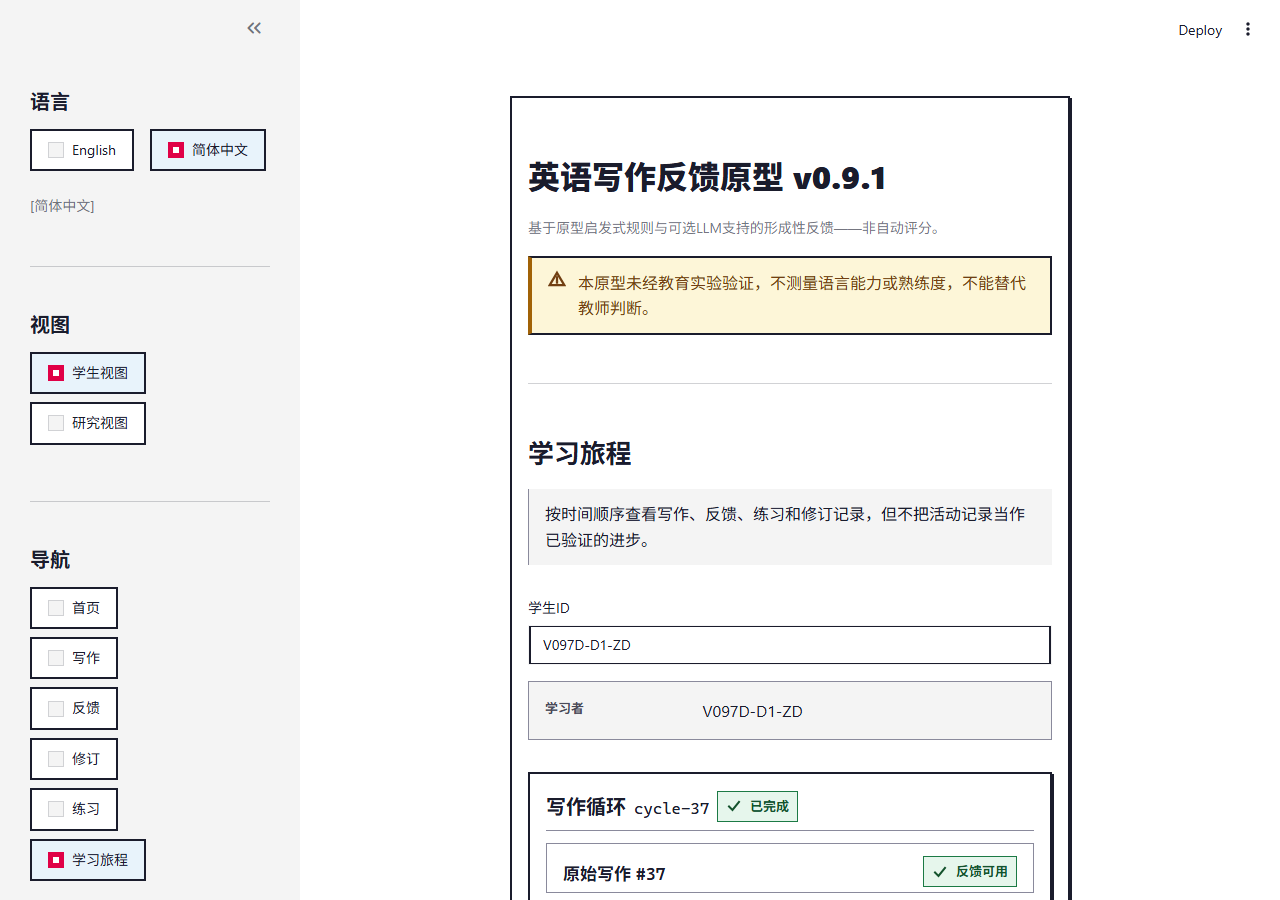
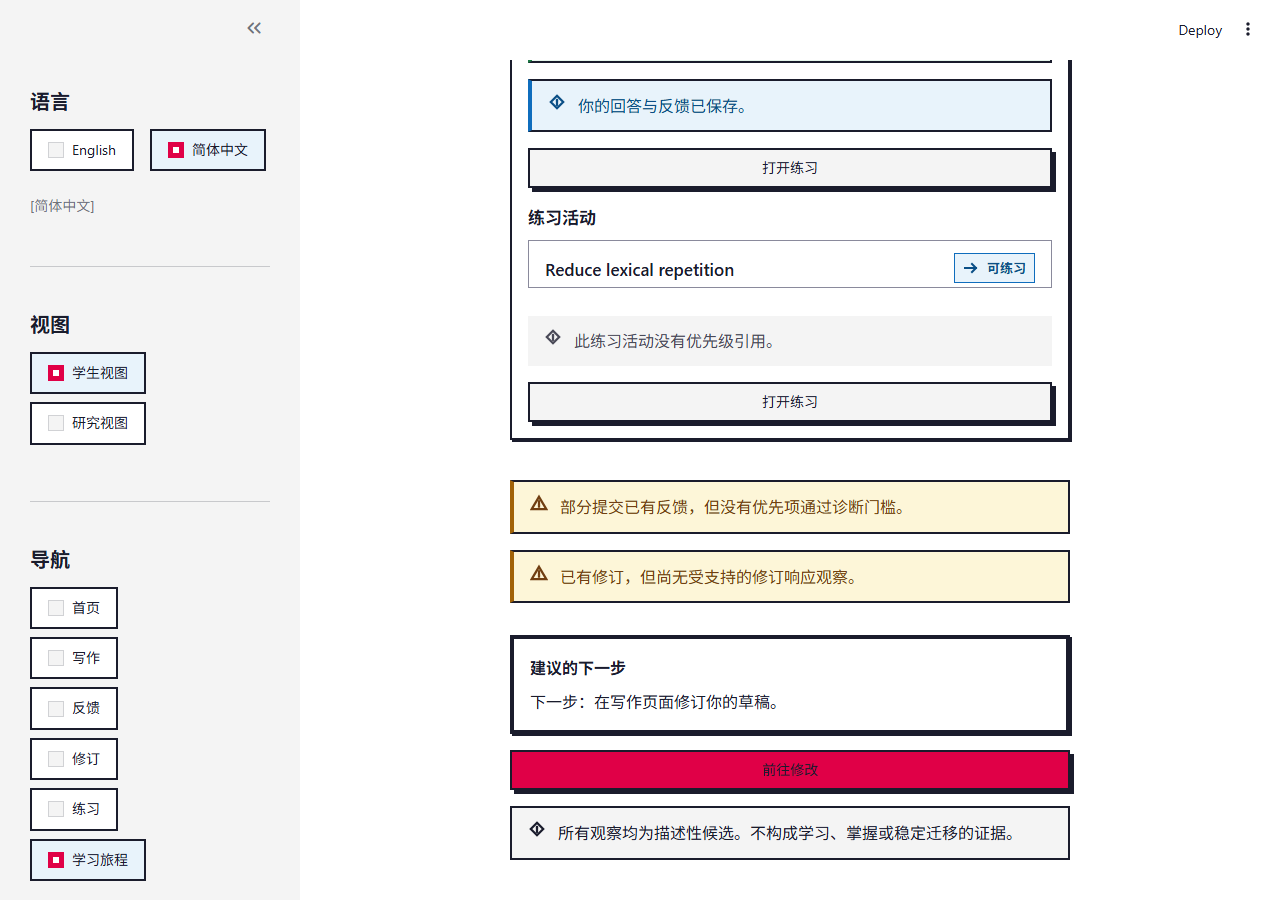
fix(v0.9.7-d): scope surface hooks to keyed containers and capture honest below-fold evidence (RC-01, RC-02)

Changed region(s): [[0.375, 0.4356, 0.8438, 1.0], [0.4062, 0.0622, 0.8438, 0.4044]]

diff --git a/verification/v0.9.7-d/v0.9.7-d-20260805-r1/d1_browser_matrix.py b/verification/v0.9.7-d/v0.9.7-d-20260805-r1/d1_browser_matrix.py
@@ -148,8 +148,9 @@ def run(browser, student_id: str, lang: str, viewport: dict, tag: str) -> dict:
     assert harness.wait_stable(page, timeout=30)
     _w5.close_sidebar(page)
 
-    assert page.locator('[data-testid="px-cycle-head"]').count() == 1
-    assert page.locator('[data-testid="px-stage-item"]').count() >= 3
+    cycle_count = page.locator('[data-testid="px-cycle-head"]').count()
+    assert cycle_count == 2
+    assert page.locator('[data-testid="px-stage-item"]').count() >= 6
     assert page.locator('[data-testid="px-status-badge"]').count() >= 3
     badges = page.locator('[data-testid="px-status-badge"]')
     states = set(badges.evaluate_all(
@@ -162,12 +163,12 @@ def run(browser, student_id: str, lang: str, viewport: dict, tag: str) -> dict:
     assert "monospace" not in family.lower()
     assert "cascadia" not in family.lower()
     assert "consolas" not in family.lower()
-    # KB-07: cycle card container carries the L2 recipe (2px ink border,
-    # hard shadow); stage containers carry the L3 hairline.
+    # KB-07 / RC-01: only the keyed cycle containers carry the L2 recipe
+    # (2px ink border + hard shadow); ancestor blocks stay unframed.
     cycle_border = page.evaluate(
         """() => {
             const el = document.querySelector(
-                '[data-testid="stVerticalBlock"]:has([data-testid="px-cycle-head"])');
+                '[data-testid="stVerticalBlock"][class*="st-key-journey_cycle_"]');
             const s = getComputedStyle(el);
             return [s.borderTopWidth, s.borderTopColor, s.boxShadow];
         }"""
@@ -175,11 +176,25 @@ def run(browser, student_id: str, lang: str, viewport: dict, tag: str) -> dict:
     assert cycle_border[0] == "2px", cycle_border
     assert cycle_border[1] == "rgb(26, 28, 44)", cycle_border
     assert cycle_border[2] != "none", cycle_border
+    framed = page.evaluate(
+        """() => {
+            const els = document.querySelectorAll(
+                '[data-testid="stVerticalBlock"]');
+            let framed = 0;
+            for (const el of els) {
+                const s = getComputedStyle(el);
+                if (s.borderTopWidth === "2px" && s.boxShadow !== "none") {
+                    framed += 1;
+                }
+            }
+            return framed;
+        }"""
+    )
+    assert framed == cycle_count, framed
     stage_border = page.evaluate(
         """() => {
             const el = document.querySelector(
-                '[data-testid="stVerticalBlock"]:has([data-testid="px-stage-item"]):not('
-                + ':has([data-testid="px-cycle-head"]))');
+                '[data-testid="stVerticalBlock"][class*="st-key-journey_stage_"]');
             const s = getComputedStyle(el);
             return [s.borderTopWidth, s.borderTopColor];
         }"""
@@ -220,6 +235,13 @@ def run(browser, student_id: str, lang: str, viewport: dict, tag: str) -> dict:
     )
     assert badge is not None, badge
     assert badge["color"] == "rgb(20, 83, 45)", badge
+    column = page.evaluate(
+        """() => {
+            const el = document.querySelector(
+                '[data-testid="stMainBlockContainer"]');
+            return el ? getComputedStyle(el).maxWidth : null;
+        }"""
+    )
 
     exceptions = page.locator('[data-testid="stException"]').count()
     assert page.locator('[data-testid="px-loading"]').count() == 0
@@ -257,20 +279,70 @@ def run(browser, student_id: str, lang: str, viewport: dict, tag: str) -> dict:
         if sidebar.count() and sidebar.first.get_attribute("aria-expanded") == "true":
             raise RuntimeError("mobile sidebar still open before capture")
     page.screenshot(path=str(shot), full_page=True)
-    page.evaluate("() => window.scrollTo(0, document.body.scrollHeight)")
-    page.wait_for_timeout(400)
+    # RC-02: Streamlit 1.60 scrolls an inner container, not the window.
+    # Find the scroller inside the main content block (never the sidebar).
+    scroll_probe = """
+        () => {
+            const out = [];
+            for (const e of document.querySelectorAll('*')) {
+                const s = getComputedStyle(e);
+                if ((s.overflowY === "auto" || s.overflowY === "scroll")
+                        && e.scrollHeight > e.clientHeight + 40) {
+                    out.push({
+                        testid: e.getAttribute("data-testid") || "",
+                        cls: (e.getAttribute("class") || "").slice(0, 60),
+                        extra: e.scrollHeight - e.clientHeight,
+                    });
+                }
+            }
+            return out;
+        }
+    """
+    scrollers = page.evaluate(scroll_probe)
+    scroll_script = """
+        () => {
+            const candidates = [
+                document.querySelector('[data-testid="stMain"]'),
+            ].filter(Boolean);
+            const scroller = candidates.find(
+                (e) => e.scrollHeight > e.clientHeight + 120
+                    && getComputedStyle(e).overflowY === "auto");
+            if (!scroller) return 0;
+            scroller.scrollTop = scroller.scrollHeight;
+            return scroller.scrollTop;
+        }
+    """
+    scrolled = page.evaluate(scroll_script)
+    assert scrolled > 0, (scrolled, scrollers)
+    page.wait_for_timeout(500)
     bottom_shot = SCREENSHOTS / f"{tag}_journey_bottom.png"
     page.screenshot(path=str(bottom_shot))
-    page.evaluate("() => window.scrollTo(0, 0)")
+    assert bottom_shot.read_bytes() != shot.read_bytes(), \
+        "bottom capture identical to top"
+    page.evaluate(
+        """
+        () => {
+            const candidates = [
+                document.querySelector('[data-testid="stMain"]'),
+            ].filter(Boolean);
+            const scroller = candidates.find(
+                (e) => e.scrollHeight > e.clientHeight + 120
+                    && getComputedStyle(e).overflowY === "auto");
+            if (scroller) scroller.scrollTop = 0;
+        }
+        """
+    )
     page.wait_for_timeout(200)
     unexpected = [item for item in console_errors
                   if not harness.is_allowed_console(item)]
     result = {
         "combination": f"{lang} {viewport['width']}x{viewport['height']}",
-        "cycle_cards": 1,
+        "cycle_cards": cycle_count,
         "stage_items": page.locator('[data-testid="px-stage-item"]').count(),
         "badge_states": sorted(states),
         "heading_sans": True,
+        "main_column_max_width": column,
+        "framed_containers": framed,
         "exceptions": exceptions, "overflow": overflow,
         "raw_keys": raw_keys, "forbidden": forbidden,
         "console_errors": unexpected, "page_errors": page_errors,
@@ -297,11 +369,12 @@ def main() -> int:
         api, streamlit = harness.start_stack("d1_matrix")
         for student_id in STUDENTS:
             seed_cycle(student_id)
+            seed_cycle(student_id)
         payload = requests.get(
             f"{harness.BASE}/api/v1/students/{STUDENTS[0]}/journey",
             timeout=30).json()
         assert payload["cycles_version"] == "journey-cycle-v0.9.7-c"
-        assert len(payload["cycles"]) == 1
+        assert len(payload["cycles"]) == 2
         states = {p["activity_state"]
                   for p in payload["cycles"][0]["practice_cycles"]}
         assert states == {"completed", "available"}, states
@@ -343,7 +416,8 @@ def main() -> int:
         assert item["exceptions"] == 0 and not item["overflow"]
         assert not item["raw_keys"] and not item["forbidden"]
         assert item["heading_sans"]
-        assert item["cycle_cards"] == 1
+        assert item["cycle_cards"] == 2
+        assert item["framed_containers"] == 2
     print(json.dumps(evidence, indent=2, ensure_ascii=False))
     return 0
 

diff --git a/app/ui/pixel_art.py b/app/ui/pixel_art.py
@@ -652,7 +652,7 @@ div[data-testid="stMainBlockContainer"]:has([data-testid="px-student-page"]) {{
 }}
 
 .px-page-heading {{
-    border-bottom: var(--px-border-thick) solid var(--px-dark);
+    border-bottom: var(--px-border-thick);
     padding-bottom: var(--px-space-2);
     margin-bottom: var(--px-space-1);
 }}
@@ -1071,9 +1071,10 @@ div.px-quote {{
 
 /* ── v0.9.7-D surface levels (L2 cycle card / L3 stage item) ───────────
    Streamlit 1.60 renders `st.container(border=True)` as an
-   stVerticalBlock with the border applied to that element; the stable
-   `:has()` hooks are our own data-testid markers. */
-div[data-testid="stVerticalBlock"]:has([data-testid="px-cycle-head"]) {{
+   stVerticalBlock with the border applied to that element. The hooks are
+   the stable widget-keyed classes (`st-key-*`) that Streamlit applies to
+   keyed containers - never ancestor blocks. */
+div[data-testid="stVerticalBlock"][class*="st-key-journey_cycle_"] {{
     border: var(--px-border-thin);
     box-shadow: var(--px-shadow-sm);
     padding: var(--px-space-4);
@@ -1081,8 +1082,7 @@ div[data-testid="stVerticalBlock"]:has([data-testid="px-cycle-head"]) {{
     background: var(--px-white);
 }}
 
-div[data-testid="stVerticalBlock"]:has([data-testid="px-stage-item"]):not(
-    :has([data-testid="px-cycle-head"])) {{
+div[data-testid="stVerticalBlock"][class*="st-key-journey_stage_"] {{
     border: var(--px-border-hairline);
     border-color: var(--px-border-subtle);
     padding: var(--px-space-3) var(--px-space-4);
@@ -1153,11 +1153,12 @@ div[data-testid="stVerticalBlock"]:has([data-testid="px-stage-item"]):not(
     margin-right: var(--px-space-1);
 }}
 
-.px-field-error {{
+div.px-field-error {{
     border: var(--px-border-thin);
     border-left: var(--px-border-thick);
     background: var(--px-white);
     color: var(--px-status-error);
+    border-left-color: var(--px-status-accent-error);
     padding: var(--px-space-2) var(--px-space-3);
     margin-bottom: var(--px-space-3);
     font-family: var(--px-font-body);

diff --git a/verification/v0.9.7-d/v0.9.7-d-20260805-r1/kimi_review_c.md b/verification/v0.9.7-d/v0.9.7-d-20260805-r1/kimi_review_c.md
@@ -1,0 +1,68 @@
+# v0.9.7-D Design Consultation C — Final Consistency Review (R1)
+
+**Role:** senior product designer, design consultation C (final consistency review of the refined representative page and the design system)
+**Date:** 2026-08-06 · **Run:** `v0.9.7-d-20260805-r1`
+**Inputs read in full and in order:** `docs/development/V0.9.7_D_STUDENT_DESIGN_SYSTEM.md` (Status: APPROVED DRAFT), `kimi_critique_b.md` (KB-01..KB-14), `engineering_decision_table.md` (D1.1 dispositions).
+**Screenshots reviewed:** `en/zh_1280x900_journey_design_system.png`, `en/zh_390x844_journey_design_system.png`, `en/zh_1280x900_journey_bottom.png`, `en/zh_390x844_journey_bottom.png` (post-refinement); `verification/v0.9.7-c/v0.9.7-c-wu4-20260805-r1/screenshots/en_1280x900_journey_grouped.png` (v0.9.7-C before reference).
+**Corroborating read-only inspection:** `rendered_page_matrix_evidence.json`, `d1_browser_matrix.py`, `app/ui/pixel_art.py`, `app/ui/components.py`, `app/ui/features/student/journey.py`, `app/ui/streamlit_app.py`; SHA-256 hashes of all eight captures; pixel-level measurements (exact colors, border widths, geometry) on the four unique captures. No production code, tests, or locales were modified; no git commands were run.
+**Method:** UI/UX Pro Max priority categories (accessibility/contrast, interaction, layout/responsive, typography/color, navigation, professional-UI consistency) applied to the renders; every visual claim below is backed by measured pixels cross-checked against token contracts and source lines.
+
+---
+
+## 1. Verdict
+
+**NOT READY** — narrowly. The two systemic blockers (KB-01, KB-02) are genuinely resolved and pixel-verified in both locales, the loading state is transient (KB-03), and the calm-ledger direction now renders as designed above the fold. But two gate items remain: the KB-07 repair introduced a **new visible regression** — an unintended 2px ink frame with hard shadow around the entire page canvas (RC-01) that violates the frozen surface hierarchy on the very page meant to prove it — and the KB-04 evidence blocker is only half resolved: the "bottom" captures are byte-identical duplicates of the top captures, so the below-fold composition the system exists to demonstrate still has zero visual evidence (RC-02). Both are small, shared-layer fixes inside the stated constraints. Freeze after: (1) scope the L2/L3 `:has()` hooks to the keyed containers; (2) re-capture true below-fold evidence; (3) apply the freeze-time documentation package RC-03..RC-12 (mostly one-line code token fixes plus doc-text amendments). A focused re-review of the new captures can then be short.
+
+## 2. Consistency assessment (max 8)
+
+- **Token discipline holds.** One canonical `DESIGN_TOKENS` source feeds generated CSS; no literal hex in components; `.streamlit/config.toml` parity preserved; zero remote requests in the evidence JSON. The single-source architecture survived the refinement.
+- **The quiet state vocabulary now renders as contracted.** Pixel-verified: disclaimer notice fill `#fdf6d8` + 4px `#a16207` accent bar + tonal text `#713f12`; success badge 1px `#1c7a45` border + `#e6f6ec` tint + `#14532d` label (en and zh); purpose and learner blocks on 1px `#8a8a9c` hairlines over `#f4f4f4`. The §3 contract table is true on every visible state surface.
+- **Geometry vocabulary is coherent where applied** — 2px controls (radios measured 2px `#1a1c2c`), 1px hairlines, 4px reserved — but it still leaks at three points: the page-enclosing frame (RC-01), the residual invalid `.px-page-heading` composite (RC-03), and the dead `.px-divider` rule (RC-10).
+- **Typography migration is consistent.** Sans headings/sidebar in both scripts, mono confined to the `cycle-*` chip and IDs, no mono CJK; zh badges and status labels render sans as specified; the KB-09 sans learner ID is a documented deferral, not an inconsistency.
+- **Bilingual parity is strong.** en/zh captures are structurally identical; badge and notice tonal colors verified in zh (`#14532d` glyphs, `#1c7a45` border); no horizontal overflow; ≥44px targets DOM-asserted at 390px; mobile app bar no longer clipped.
+- **Border-weight hierarchy improved but re-inverted at the top level.** Chrome quieted (radios 2px, disclaimer on recipe, loading gone) — yet the new page frame makes the canvas itself the second-loudest gesture and double-frames the cycle card, contradicting "quiet by default" and §6's L0 definition.
+- **Doc↔implementation drift is now concentrated in small, enumerable spec numbers** (notice icon 18 vs 20px; focused-panel shadow-sm vs shadow-md; mobile 2px vs documented 4px bars; ~560px rendered column vs the "720px" parenthetical) — each is a one-line reconciliation at freeze, listed as RC-07/08/09/11.
+- **Clarity vs aesthetics balance is right.** Compared with v0.9.7-C the page is visibly calmer and more credible: state surfaces whisper (tint + bar + icon + tonal label), the single accent red is disciplined, and nothing decorative competes with the record. Once the frame regression is removed, the page will match its own direction.
+
+## 3. KB resolution check (max 8)
+
+- **KB-01 — RESOLVED, one residual.** Invalid composites rewritten as valid shorthand + separate `border-color` overrides; pixel-verified on badge, purpose, learner, notice bar, and (visually) the cycle card. Residual: `.px-page-heading` still carries the invalid `border-bottom: var(--px-border-thick) solid var(--px-dark)` (`pixel_art.py:655`); the page-title structural rule is still silently dropped in every capture (RC-03).
+- **KB-02 — RESOLVED, one residual + one fragility.** State colors re-scoped with type selectors and pixel-verified (`#14532d` badge text en+zh, `#713f12` notice text; harness asserts `rgb(20,83,45)`). Residual: `.px-field-error` still uses the *tint* token `var(--px-status-error)` (`pixel_art.py:1160`) — the KB-02 re-audit note was not acted on; it renders ink only because the global text rule still outranks it (RC-04). Fragility: the fix ties the global rule on specificity (0,2,1 vs 0,2,1 for badges; 0,1,1 vs 0,1,1 for notices) and wins only through stylesheet injection order.
+- **KB-03 — RESOLVED.** `st.empty()` placeholder cleared after the read (`journey.py:347-353`); harness asserts `px-loading` count == 0 in the settled state; no loading box in any capture.
+- **KB-04 — PARTIALLY RESOLVED.** Mobile sidebar closed (captures show full content, app bar intact; harness raises if `aria-expanded="true"`) and settled-state timing fixed. Not resolved: all four `journey_bottom.png` files are byte-identical to their `design_system.png` counterparts (SHA-256 match) — the harness scrolls `window`, which is a no-op on Streamlit's inner scroll container — so stage items, the practice panel, stage actions, the focused panel/primary CTA, the limitation notice, and the cycle-head hairline remain visually unverified; the two-cycle learner was not seeded (evidence JSON still `cycle_count: 1`) (RC-02).
+- **KB-05 + KB-14 — RESOLVED.** Disclaimer routed through the notice core (`streamlit_app.py:85` → `warning_box` → `notice`), measured on-recipe; `.px-loading` restyled to the neutral recipe in code (hairline + neutral accent + neutral tint). Pending: the §10 text amendment KB-05 recommended (RC-05).
+- **KB-06 — RESOLVED.** Purpose block measured: 1px `#8a8a9c` left hairline on `#f4f4f4`; the off-vocabulary ink bar is gone.
+- **KB-07 — RESOLVED WITH REGRESSION.** L2/L3 recipes now bind to the keyed containers and render: cycle card measured with 2px `#1a1c2c` border + hard shadow; L3 hairline DOM-asserted (`rgb(138,138,156)`). But the `:has()` hooks (`pixel_art.py:1076-1092`) also match every *ancestor* `stVerticalBlock`, painting the L2 recipe around the whole page (RC-01), and the harness's `querySelector` assertion samples the first — outermost — match, so it validated the frame. The related `.px-student-action` shadow correction to `--px-shadow-md` was missed (`pixel_art.py:727`, RC-08).
+- **KB-08/10/11 — RESOLVED; KB-09/12/13 stand as recorded.** Radio options measured 2px with quiet info-tint selection + bold label (`#e8f3fb`); badge icon ≈16px (glyph 11×9 in a 16px box; code `size=16`, `components.py:205`); red `#e00047` selection marks retained per the KB-12 rejection — the documenting sentence is not yet in §3 (RC-06); KB-09 (mono learner ID) and KB-13 (O1 copy, mobile type scale) remain valid deferrals that must be carried into the frozen record (RC-12).
+
+## 4. Rollout-readiness assessment
+
+Conditionally ready — the reusable core is proven, the proof page is not. What is ready for Writing, Feedback, Revision, and Practice today: the token layer, the badge/notice/context/purpose primitives (pixel-verified), the bilingual behavior, the no-overflow and touch-target guards, and the four-combination browser matrix with DOM assertions. What is not ready: the L2/L3 container-binding mechanism, which is exactly the piece the other pages will copy — as implemented it frames any page containing the markers (RC-01); the error voice on form pages, which silently renders ink because `.px-field-error` keeps the tint token (RC-04, matters most on Writing/Feedback); and the below-fold composition, which has never been seen (RC-02) — the focused panel, one-primary CTA, stage actions, and limitation notice that the action hierarchy (§7) and state matrix (§8) depend on. Preconditions before the first rollout slice, all inside constraints: scope the hooks to the `st-key-journey_*` container classes; apply the one-line token fixes (RC-03, RC-04, RC-08); capture one honest full-scroll or stitched render per combination (two-cycle learner recommended); populate §16/§20; then proceed per §19 in small page slices, keeping the DEFER-D items (Home/Practice spinner unification, Home step tiles) untouched.
+
+## 5. Remaining contradictions / documented limitations
+
+- **RC-01 — Page-enclosing L2 frame (gate).** `pixel_art.py:1076-1092`: `div[data-testid="stVerticalBlock"]:has([data-testid="px-cycle-head"])` matches ancestor blocks, wrapping the entire page in a 2px `#1a1c2c` border + 2px hard shadow + 16px padding. Measured in all four unique captures (desktop x=510/511 + 1068-1071, top y=96-97; mobile x=16/17 + 372-375). Absent in the v0.9.7-C before capture → introduced by the KB-07 refinement. Contradicts §6 L0 ("bg, no border — page canvas"), the nesting rules, and §2's quiet-by-default principle; also narrows the mobile content measure by ~36px.
+- **RC-02 — Below-fold visual evidence absent (gate).** All four `journey_bottom.png` are SHA-256-identical to their top counterparts; `d1_browser_matrix.py` scrolls `window`, a no-op on Streamlit's inner scroller. The evidence JSON still lists these as `bottom_screenshot` paths, which misrepresents coverage. Unevidenced: six stage items in context, practice state panel, stage secondary actions, focused panel + single primary CTA, limitation notice, cycle-head hairline, and 24px inter-cycle rhythm (single cycle seeded).
+- **RC-03 — Residual invalid composite.** `pixel_art.py:655` (`.px-page-heading`): the KB-01 defect pattern survives here; the page-title structural rule is dropped in every capture. §9's page-header spec is also silent on the rule — code and doc must be reconciled one way or the other.
+- **RC-04 — `.px-field-error` tint token.** `pixel_art.py:1160`: `color: var(--px-status-error)` (`#fdeaef` on white) — near-invisible by design value, rendered ink only via the global-rule accident. The error state voice never reaches Writing/Feedback form errors; if specificity is ever raised, the text disappears.
+- **RC-05 — §10 vs implementation (disclaimer).** §10 says "disclaimer notice (quiet info)"; the implementation renders the warning tint recipe (measured `#fdf6d8` / `#a16207`). KB-05 recommended keeping warning and amending §10; the doc (unchanged since 2026-08-05 22:32, before critique B) has not been amended.
+- **RC-06 — §3 red reservation vs native selection marks.** Radios retain the theme `#e00047` mark (measured) while §3 reserves red for forward actions. KB-12's agreed resolution was a documenting sentence in §3; it is not yet present.
+- **RC-07 — §9 notice spec vs `notice()`.** Spec: 20px icon + bold label + body. Implementation (`components.py:275`, also `:250`): 18px icon, no label element — every notice renders icon + body only. Under the wording-frozen constraint the "bold localized label" clause is unsatisfiable for fixed-copy notices; the doc should state that the label channel lives on the badge.
+- **RC-08 — §6 focused-panel shadow.** `.px-student-action` keeps `box-shadow: var(--px-shadow-sm)` (`pixel_art.py:727`); §6 specifies `--px-shadow-md`. Below-fold, so currently assertion- and code-level only.
+- **RC-09 — Mobile accent bars are 2px, undocumented.** The ≤640px media query redefines `--px-border-thick` to 2px (`pixel_art.py:603`), so notice accent bars, the focused-panel border, and the (broken) page rule all render 2px on mobile — measured: mobile disclaimer bar 2px `#a16207`. §3/§5 state 4px without noting the responsive reduction; the harness already encodes the 2px expectation.
+- **RC-10 — `.px-divider` rule is dead CSS.** Spec'd as 4px ink (`pixel_art.py:848`), but Streamlit's default hr styling wins: measured 1px `#c8c9cc` sidebar hairlines and a 1px `#d1d2d5` main-content rule (y=456; `streamlit_app.py:182`). Pre-existing (identical in the v0.9.7-C capture at y=450); undocumented either way.
+- **RC-11 — "720px student column" vs render.** Token says 720px (`pixel_art.py:148`); the rendered column measures ~560px outer / ~524px inner on the 1280px captures (identical in v0.9.7-C, so pre-existing container behavior, not the frame). Readability still holds (~60ch ≤ the 75ch contract); the doc's parenthetical is numerically wrong.
+- **RC-12 — Freeze artifacts unpopulated.** §16 (screenshot references) and §20 (validation evidence) remain "populated at freeze" placeholders, and the KB-09/KB-13 deferrals need to be carried into the frozen record alongside the existing §15 list.
+
+## 6. Risks of one-off implementations
+
+- **Hook replication.** Any rollout page that adopts the `px-cycle-head`/`px-stage-item` markers — or copies the `:has()` pattern for new containers — inherits the page-enclosing frame (RC-01). Scope the selectors by the stable `st-key-*` classes once, centrally, before the first page slice.
+- **Specificity-tie collapse.** Badge and notice colors win only through stylesheet injection order (ties at 0,2,1 and 0,1,1). A future edit to the global text rule or injection sequence silently re-inverts state colors, and the harness guards only the success badge — likely outcome: per-page `!important` patches. Raise the state selectors above the global rule (as KB-02 originally sketched) or extend the color assertion to every state and page.
+- **Latent field-error bug invites local fixes.** When the Writing/Feedback slices notice their error messages lack the error voice (RC-04), the tempting move is a page-local color. Fix the single token (`--px-status-on-error`) in the shared layer first.
+- **Undocumented variants get re-derived per page.** The sidebar selection recipe (`--px-status-info` tint + bold), the `.px-notice-limitation` variant (surface fill + 2px ink border, no accent bar — also below-fold/unverified), the 18px notice icon, and the mobile 2px bars are all implementation facts with no doc contract (RC-05..RC-09). Without freeze-time amendments, each page author will re-invent them slightly differently.
+- **Separator improvisation.** Because `.px-divider`'s 4px-ink rule never renders (RC-10), pages needing rules may invent per-page hr styles. Either repair the rule or document the native hairline as the separator pattern.
+- **Assertion-only below-fold components drift silently.** Until at least one full-scroll capture exists per page (RC-02), the focused panel, stage actions, and limitation notice can diverge on the other four pages without any artifact noticing.
+
+## 7. Constraints respected in this review
+
+No recommendation changes business behavior or wording semantics (Journey grouping, ordering, state vocabulary, navigation, persistence untouched; the RC-01/03/04/08 fixes are shared-layer CSS only). No remote resources, no new features, no backend changes, no full mobile redesign, no dark mode, no animation. Every limitation above cites the component/token/screenshot it was measured from.
